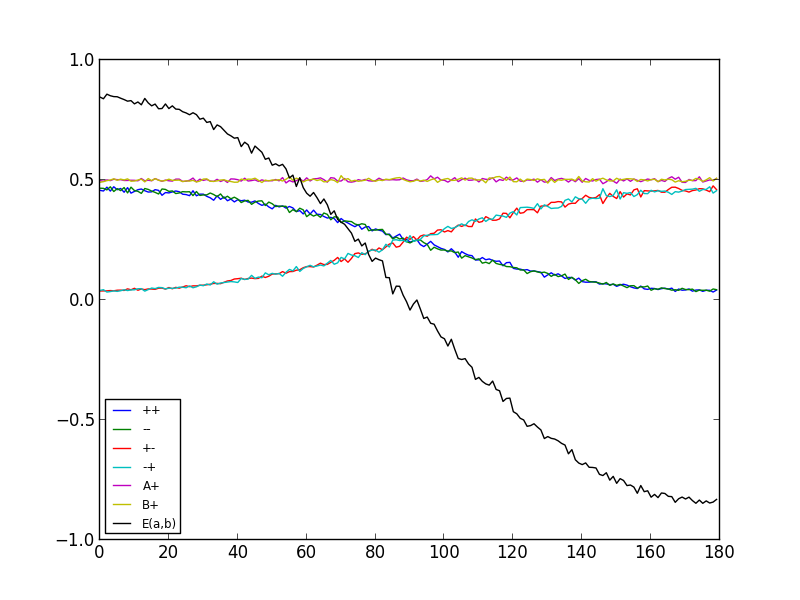
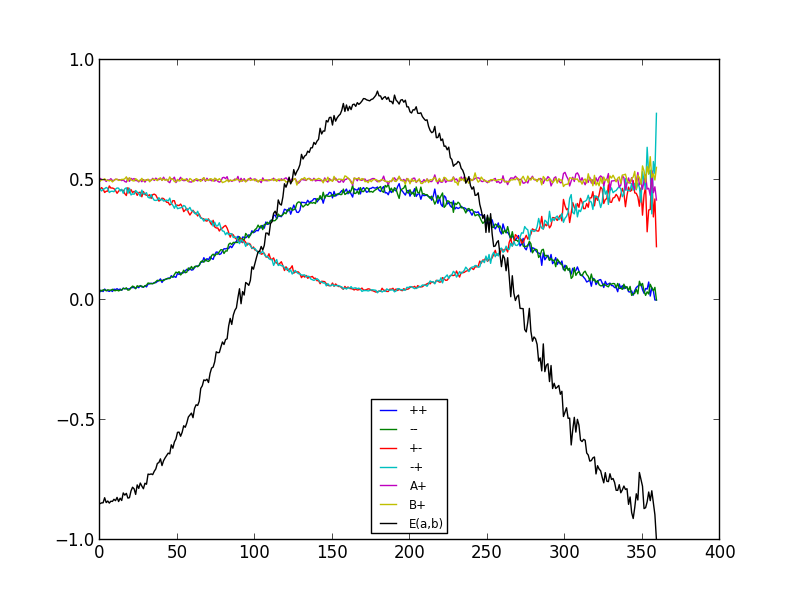
Clarified the code and description. Also added comments and fixed a few bugs.

diff --git a/epr.py b/epr.py
@@ -6,6 +6,7 @@ import sys
 NUM_ITERATIONS = 10000000
 
 class ProgressMeter(object):
+    """Displays a progress bar so we know how long it will take"""
     def __init__(self, **kw):
         self.total = int(kw.get('total', 100)) # Number of units to process
         self.count = int(kw.get('count', 0))   # Number of units already processed
@@ -19,6 +20,7 @@ class ProgressMeter(object):
         sys.stdout.write(chr(27) + '[s')
 
     def update(self, count, **kw):
+        """Increment progres count by `count` amount"""
         now = time.time()
         self.count += count 
         self.current_rate = self.count/(now - self.start_time)
@@ -37,47 +39,57 @@ class ProgressMeter(object):
             self.last_refresh = time.time()
 
 class Source(object):
-    def __init__(self, variant=1.0):
-        self.variant= variant
+    """Generate and emit two particles with hidden variables"""
+    def __init__(self, spin=0.5, phase=numpy.pi):
+        self.spin = spin
+        self.phase = phase
         
     def emit(self):
-        e = numpy.random.uniform(0.0,numpy.pi*2)
+        e = numpy.random.uniform(0.0,2*numpy.pi)
         p1 = numpy.random.uniform(0.0, 1.0)
         p2 = numpy.random.uniform(0.0, 1.0)
-        lp = (e, p1, self.variant)  # Left particle        
-        rp = (e, p2, self.variant)  # Right particle
+        lp = (e, p1, self.spin)  # Left particle        
+        rp = (self.phase + e, p2, self.spin)  # Right particle
         return lp, rp
 
 class Station(object):
-    def __init__(self):
-        self.results = numpy.empty((NUM_ITERATIONS, 2))  # angle, channel
+    """Detect a particle with a given/random setting"""
+    def __init__(self, fixed_angle=None):
+        """Initialize with fixed_angle, otherwise random fast switching will be used"""
+        self.results = numpy.empty((NUM_ITERATIONS, 2))  # columns: angle, +1/-1/0 outcome
         self.results.fill(numpy.nan)
         self.count = 0
+        self.fixed_angle = fixed_angle
         
     def get_setting(self):
-        return numpy.random.uniform(0.0,numpy.pi*2)
+        """Return the current detector setting"""
+        if self.fixed_angle is None:
+            return numpy.random.uniform(0.0,numpy.pi*2)
+        else:
+            return self.fixed_angle
         
     def detect(self, particle):
+        """Calculate the station outcome for the given `particle`"""
         a = self.get_setting()
         e, p, s = particle
-        threshold = numpy.random.uniform(0, 1)
         C = numpy.cos(s*(e - a))**2 - p
+        threshold = numpy.random.uniform(0, 1)
         if abs(C) > threshold:
             out = numpy.sign(C)
         else:
             out = 0.0             
-        self.results[self.count] = numpy.array([a, out])
+        self.results[self.count] = numpy.array([a, out]) # save angle, outcome pair
         self.count += 1
 
 
 class Simulation(object):
     def __init__(self):
-        self.source = Source(0.5)
+        self.source = Source(spin=0.5, phase=numpy.pi)
         self.alice = Station()
         self.bob = Station()
         
     def run(self):
-        # generate and detect particles
+        """generate and detect particles"""
         progress = ProgressMeter(total=NUM_ITERATIONS)
         for i in range(NUM_ITERATIONS):
             left_particle, right_particle = self.source.emit()
@@ -90,6 +102,7 @@ class Simulation(object):
         numpy.save("Bob", self.bob.results)
 
     def analyse(self):
+        """select coincidences and calculate probabilities for each angle diff"""
         alice = numpy.load('Alice.npy') # angle, outcome 
         bob = numpy.load('Bob.npy')  # angle, outcome 
         ab = alice[:,0] - bob[:,0]
@@ -112,7 +125,7 @@ class Simulation(object):
         am = abdeg[sl_am]
         bm = abdeg[sl_bm]
         
-        x = numpy.arange(180.)
+        x = numpy.arange(360.)
         ypp = numpy.zeros_like(x)
         ymm = numpy.zeros_like(x)
         ypm = numpy.zeros_like(x)
@@ -121,25 +134,29 @@ class Simulation(object):
         ybp = numpy.zeros_like(x)
         Eab = numpy.zeros_like(x)
         
-        # select coincidences and calculate probabilities for each angle diff
         for a in x:
             i = int(a)
             lpp = len(pp[(pp==a)]) # ++
             lmm = len(mm[(mm==a)]) # --
             lpm = len(pm[(pm==a)]) # -+
             lmp = len(mp[(mp==a)]) # +-
+            Na = len(ap[ap==a]) +len(am[am==a])
+            Nb = len(bp[bp==a]) + len(bm[bm==a])
             tot = lpp + lmm + lpm + lmp
             
-            ypp[i] = float(lpp)/tot
-            ymm[i] = float(lmm)/tot
-            ypm[i] = float(lpm)/tot
-            ymp[i] = float(lmp)/tot
+            if tot != 0.0:
+                ypp[i] = float(lpp)/tot
+                ymm[i] = float(lmm)/tot
+                ypm[i] = float(lpm)/tot
+                ymp[i] = float(lmp)/tot
             
             Eab[i] = ypp[i] + ymm[i] - ypm[i] - ymp[i]
             
             # single sided +/- outcome probabilities
-            yap[i] = float(len(ap[ap==a]))/(len(ap[ap==a]) + len(am[am==a]))
-            ybp[i] = float(len(bp[bp==a]))/(len(bp[bp==a]) + len(bm[bm==a]))
+            if Na != 0.0:
+                yap[i] = float(len(ap[ap==a]))/Na
+            if Nb != 0.0:
+                ybp[i] = float(len(bp[bp==a]))/Nb
         
         # Plot results   
         from matplotlib import pyplot as plt

diff --git a/README.md b/README.md
@@ -5,20 +5,33 @@ A Simple event-by-event simulation of the EPR experiment
 
 How it works:
 ------------
-The simulation consists of a Source object, generating particle pairs, to be analyzed at 2 Detection stations.
+The simulation consists of a Source object, generating particle pairs, to be analyzed at 2 Detection stations. The maths of the model can be summarized as:  
+
+        λ = {e, ϕ, p, q, s},
+        e ∈ [0..2π)
+        e' = e + ϕ, ϕ = {0,π}
+        p, q ∈ [0..1)
+        s = {1/2, 1}
+        A(a,λ) = sign(cos²(s(e − a))-p)
+        B(b,λ) = sign(cos²(s(e' − b))-q)
+
 
 1) The Source, and Particles:
 
 Simply generates two tuples each with 3 parameters corresponding to the "hidden variables".
-The source a single parameter `variant` which by default is 1.0. 
+The source a two parameters:  
+
+    `spin` - spin of particles being produced (default 1/2).
+    `phase` - phase shift between the two particles (default is pi) 
+
 A particle pair is generated as follows:  
 
     `e`  - an angle common to both particles selected randomly each time from the range [0, 2pi)
     `p1` - a random property of the left particle selected randomly from [0, 1)
     `p2` - a random property of the right particle selected randomly from [0, 1)  
 
-The left particle is the tuple `(e, p1, variant)`
-The right particle is the tuple `(e, p2, variant)`
+The left particle is the tuple `(e, p1, spin)`
+The right particle is the tuple `(e+phase, p2, spin)`
 
 2) The Detection Stations:
 Two stations exists named `Alice` and `Bob`. Alice will measure the left particle, while Bob will measure the right particle.
@@ -26,7 +39,7 @@ The detection proceeds as follows:
 
     - A random angle 'a' is selected in the range [0, 2pi)
     - A transformed value 'C' is calculated using the three particle properties and 
-      the detector setting 'a' as C = cos(variant*(e-a))**2 - p
+      the detector setting 'a' as C = cos(spin*(e-a))**2 - p
     - A threshold value is selected randomly in the range [0, 1). 
       If the absolute value of C is greather than the threshold, 
       the particle is detected in which case the output will be sign(C), 
@@ -35,9 +48,9 @@ The detection proceeds as follows:
 
 Statistical Analysis:
 --------------------    
-At the end of the simulation, the results from each station are saved to a separate file and the statistics and coincidences between Alice and Bob are analyzed and plotted.
+At the end of the simulation, the results from each station are saved to a separate numpy array files Alice.npy and Bob.npy. 
 
-The angle difference between Alice and Bob's setting is calculated converted and rounded to the nearest degree. For each angle in the range [0, 2pi) converted and rounded to the nearest degree, we collect all instances where that angle difference was observed and calculate the probabilities:
+The statistics are calculated as follows. The angle difference between Alice and Bob's setting is calculated using the first column of their respective output arrays, converted to degrees and rounded to the nearest degree. For each angle in the range [0, 2pi) converted and rounded to the nearest degree, we collect all instances where that angle difference was observed. Then we count the number of matches/mismatches between the second columns of Alice and Bobs arrays and calculate the probabilities:  
 
     - P++ : Both Alice and Bob measured +1
     - P-- : Both Alice and Bob measured -1
@@ -50,10 +63,11 @@ From These probabilities we can calcualte the Expectation value:
     
     - E(a,b) = P++ + P-- - P+- - P-+  
     
-The results are then plotted. A sample plot after 10,000,000 iterations is shown in epr.png
-The results for each station are saved in numpy array files Alice.npy and Bob.npy (open with numpy.load)
+A sample plot after 10,000,000 iterations is shown in epr.png
 
 Notes:
 -----
+Each particle is treated separately from the source to the +1/-1 outcome therefore there is no hidden communication or non-locality. In principle, we can perform the detection step, and save the arrays on separate computers.
 
-Note the similarity with the Weih's et al data described in http://arxiv.org/pdf/quant-ph/0606122.pdf (Fig 1). At first I was worried that the maximum of the E(a,b) did not reach 1. However, this is exactly what the experiment shows as well (see Fig 1b of the above paper).
+Note the similarity with the Weih's et al data described in http://arxiv.org/pdf/quant-ph/0606122.pdf (Fig 1). At first I was worried that the maximum of the E(a,b) did not reach 1 exactly. However, this is exactly what the experiment shows as well (see Fig 1b of the above paper).
+
